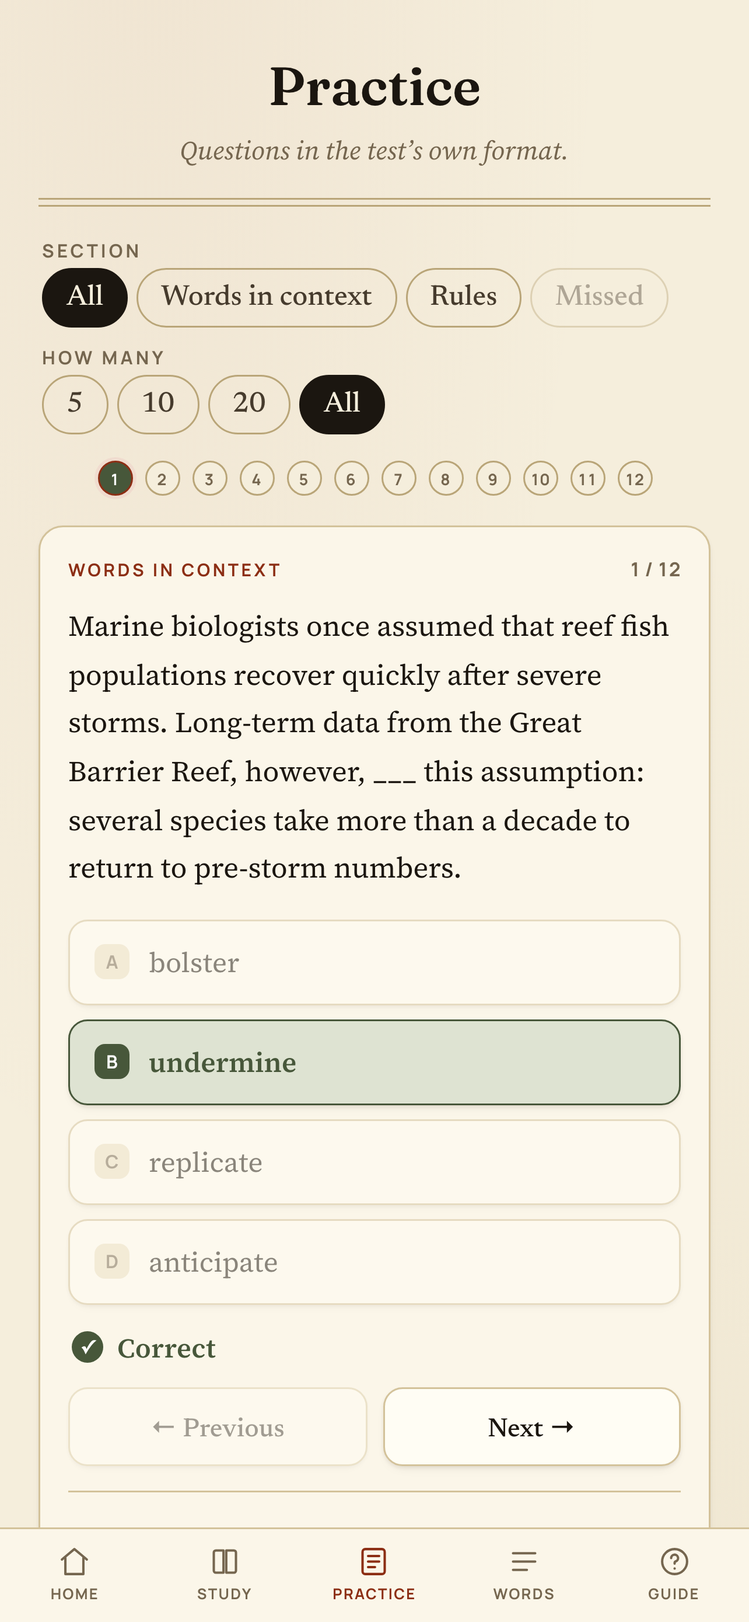
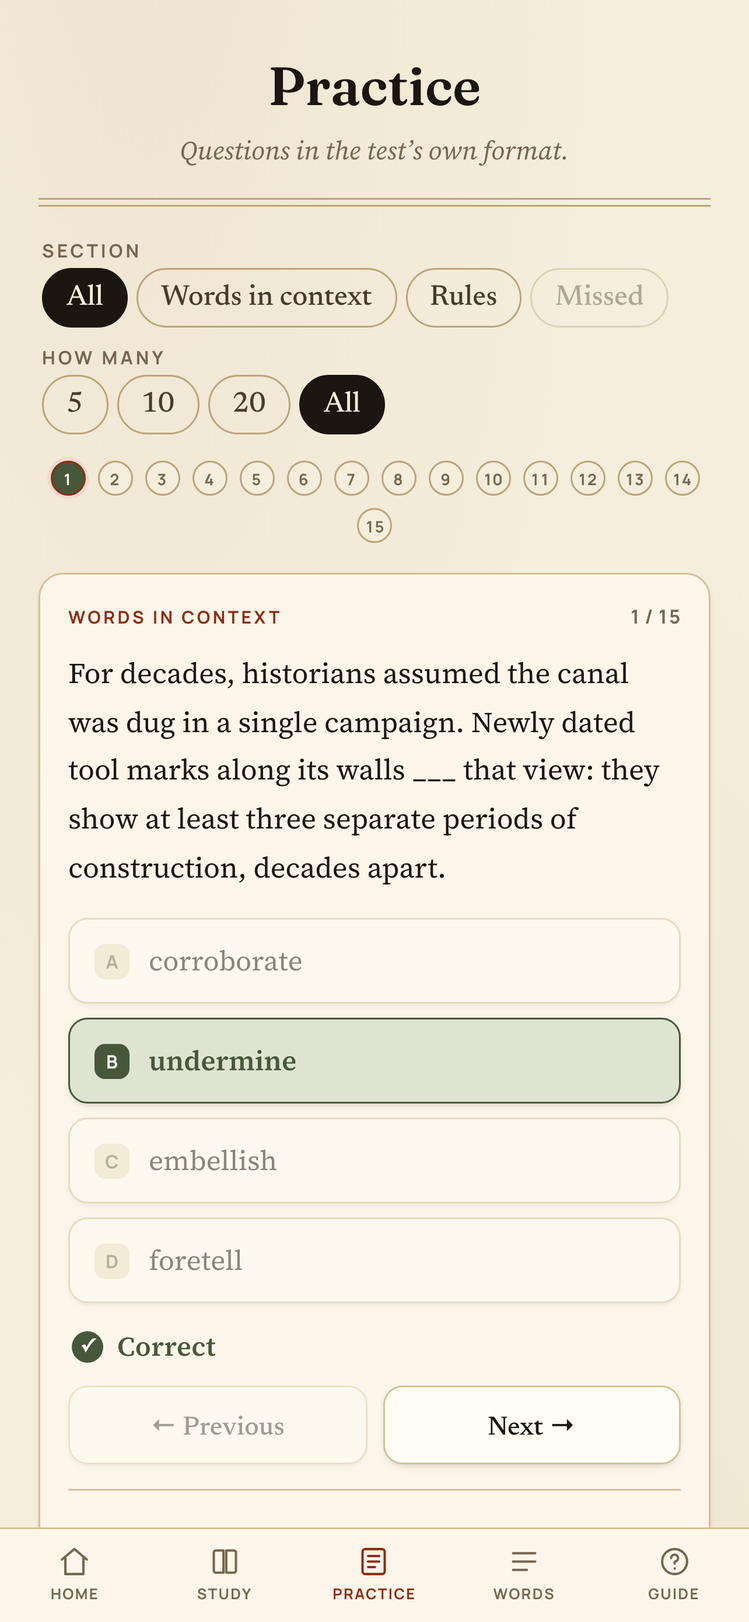
Replace the whole practice bank with original questions; build 3
The 29 questions inherited from the original app's bank are gone; their
source could not be traced, so all were treated as possibly College Board.
In their place, 30 questions written from scratch in the SAT Reading and
Writing format: 15 words-in-context (every option is a word from the list)
and 15 rules and expression, with invented names and new ids (w1-w15,
r1-r15).

- Every option has its own explanation (why[4]) shown after answering,
  rules questions included, plus an English and a Turkish summary.
- Missed drops ids from the retired bank, so it never counts questions it
  cannot show.
- Data test: four explanations per question, exactly one starting
  "Correct", words-in-context options all in the word list, no retired ids.
  Smoke test: every question explains all four options without running off
  a 320-pixel screen.
- Store screenshots regenerated; build number 3; sw.js cache v12.

diff --git a/data/questions.js b/data/questions.js
@@ -1,35 +1,40 @@
-/* Practice bank. ex = English explanation (always shown); ex_<lang> = the same
-   explanation in another language, shown underneath when that language is chosen.
-   g = short meanings for options that are not in the word list; g_<lang> = the same
-   in another language. Options that are in the list take their meaning from it. */
+/* Practice bank: 30 questions in the SAT Reading and Writing format, all
+   written for Lexicon from scratch in October 2026 (passages, options and
+   explanations; names in them are invented). None comes from College Board
+   or any other publisher.
+   sec   wic = words in context (every option is a word from data/words.js, so
+         the app shows its meaning), wr = rules and expression
+   ex    English summary (always shown); ex_<lang> the same in another language
+   why   one English explanation per option, in option order */
 var QUESTIONS = [
-{"id":"c1","sec":"wic","p":"Marine biologists once assumed that reef fish populations recover quickly after severe storms. Long-term data from the Great Barrier Reef, however, ___ this assumption: several species take more than a decade to return to pre-storm numbers.","o":["bolster","undermine","replicate","anticipate"],"a":1,"ex":"'However' signals a contrast with the old assumption, and slow recovery means the data works against it. Undermine = weaken. Bolster is the opposite (support).","ex_tr":"'however' + yavaş toparlanma → veri varsayımı zayıflatıyor. Undermine = zayıflatmak, çürütmek. Bolster tam tersi (desteklemek).","g":{"replicate":"to make an exact copy; to repeat an experiment","anticipate":"to expect, and prepare for"},"g_tr":{"replicate":"kopyalamak; (deneyi) tekrarlamak","anticipate":"önceden tahmin etmek, beklemek"}},
-{"id":"c2","sec":"wic","p":"Because the trial's results were preliminary, the team was careful to ___ its claims, describing the treatment as “promising” rather than “proven.”","o":["temper","trumpet","dismiss","fabricate"],"a":0,"ex":"Calling the treatment 'promising' rather than 'proven' softens the claim. Temper = moderate, tone down. Trumpet would exaggerate it.","ex_tr":"'promising' deyip 'proven' dememek = iddiayı yumuşatmak. Temper = ölçülü hâle getirmek, yumuşatmak.","g":{"temper":"to moderate; to soften","trumpet":"to announce loudly and proudly","dismiss":"to reject as not worth considering","fabricate":"to invent a story or data in order to deceive"},"g_tr":{"temper":"yumuşatmak, ölçülü hâle getirmek","trumpet":"yüksek sesle duyurmak, öve öve anlatmak","dismiss":"reddetmek, göz ardı etmek","fabricate":"uydurmak"}},
-{"id":"c3","sec":"wic","p":"Composer Florence Price was remarkably ___ : in less than three decades she completed more than 300 works, from art songs to full symphonies.","o":["prolific","meticulous","derivative","reclusive"],"a":0,"ex":"More than 300 works in three decades points to sheer output. Prolific = producing a great deal. Meticulous (careful) does not explain the number.","ex_tr":"300+ eser = üretkenlik. Prolific = çok üretken. Meticulous (titiz) sayıyı açıklamaz.","g":{"prolific":"producing a great many works","derivative":"copied from others; not original","reclusive":"keeping away from other people"},"g_tr":{"prolific":"üretken, verimli","derivative":"taklit, özgün olmayan","reclusive":"içine kapanık, insanlardan uzak duran"}},
-{"id":"c4","sec":"wic","p":"Because the manuscript is unsigned and undated, scholars can only ___ about who wrote it, drawing on hints in the handwriting and the ink.","o":["speculate","substantiate","concede","reminisce"],"a":0,"ex":"With no signature or date, scholars have only hints, so they can only guess. Speculate = form a theory without firm evidence. Substantiate needs proof.","ex_tr":"Kanıt yok, sadece ipucu → speculate = kanıta tam dayanmadan tahmin yürütmek. (Rhetorical verbs listenden!)","g":{"reminisce":"to recall the past with pleasure"},"g_tr":{"reminisce":"geçmişi özlemle anmak"}},
-{"id":"c5","sec":"wic","p":"Working independently, the two research teams arrived at the same estimate of the glacier's age — a ___ that lent considerable weight to the finding.","o":["discrepancy","convergence","conjecture","rebuttal"],"a":1,"ex":"Two independent teams reaching the same estimate is a coming-together of results. Convergence = agreement from separate directions. Discrepancy is the opposite.","ex_tr":"Bağımsız iki ekip aynı sonuca varıyor = converge (aynı noktada birleşme). Discrepancy (tutarsızlık) tam tersi.","g":{"discrepancy":"a difference between things that should agree","convergence":"a coming together to the same point from different directions"},"g_tr":{"discrepancy":"tutarsızlık, uyumsuzluk","convergence":"aynı noktada birleşme"}},
-{"id":"c6","sec":"wic","p":"Critics who once dismissed the artist's early collages as amateur experiments now ___ them as precursors to an entire school of design.","o":["hail","disparage","mimic","obscure"],"a":0,"ex":"'Once dismissed ... now ___' sets up a reversal: the critics now praise the collages. Hail = praise enthusiastically. Disparage describes the old attitude.","ex_tr":"'once dismissed... now ___' → zıtlık: artık övüyorlar. Hail = övgüyle selamlamak. Disparage (kötülemek) eski tutum.","g":{"hail":"to praise enthusiastically; to greet","mimic":"to imitate"},"g_tr":{"hail":"övgüyle karşılamak, selamlamak","mimic":"taklit etmek"}},
-{"id":"c7","sec":"wic","p":"Although the region's fossil record is rich in marine species, there is a ___ of evidence for land animals, forcing paleontologists to rely on sites elsewhere.","o":["dearth","plethora","continuum","hierarchy"],"a":0,"ex":"'Although rich in marine species' contrasts with a shortage of land-animal evidence. Dearth = scarcity (a synonym of paucity). Plethora means the opposite.","ex_tr":"'Although rich... ' → zıtlık: azlık. Dearth = paucity = kıtlık. Plethora (bolluk) tuzak, tam tersi.","g":{"continuum":"a continuous range with no sharp divisions","hierarchy":"a system of ranks, one above another"},"g_tr":{"continuum":"süreklilik, kesintisiz dizi","hierarchy":"hiyerarşi, sıralı düzen"}},
-{"id":"c8","sec":"wic","p":"The compound appears ___ at low doses; only when concentrations rise sharply does it begin to damage cells.","o":["innocuous","noxious","salient","volatile"],"a":0,"ex":"Harmless at low doses, damaging only when concentrations rise. Innocuous = harmless. Noxious (poisonous) describes the high-dose effect.","ex_tr":"Düşük dozda zarar yok → innocuous = benign = zararsız. Noxious (zehirli) ancak yüksek dozda."},
-{"id":"c9","sec":"wic","p":"In her summary, the economist focused on the most ___ features of the data — the handful of trends a policymaker could not afford to ignore.","o":["salient","obscure","benign","redundant"],"a":0,"ex":"Trends a policymaker cannot ignore are the most noticeable and important ones. Salient = most prominent. Obscure is the opposite.","ex_tr":"'ignore edilemeyecek' → en belirgin/önemli = salient. Obscure (belirsiz) tam tersi.","g":{"redundant":"not needed; repeating what is already there"},"g_tr":{"redundant":"gereksiz, fazlalık"}},
-{"id":"c10","sec":"wic","p":"Compelling anecdotes may make the hypothesis seem plausible, but they cannot ___ it; only controlled trials can do that.","o":["substantiate","entertain","paraphrase","eclipse"],"a":0,"ex":"Anecdotes are not proof; only controlled trials can confirm the hypothesis. Substantiate = support with evidence.","ex_tr":"Anekdot kanıt değildir → kanıtla doğrulamak = substantiate (Support a claim kategorisi).","g":{"entertain":"to consider an idea; to amuse","paraphrase":"to say the same thing in other words"},"g_tr":{"entertain":"(bir fikri) değerlendirmek; eğlendirmek","paraphrase":"başka sözcüklerle ifade etmek"}},
-{"id":"c11","sec":"wic","p":"Surveys reveal a deep ___ toward workplace automation: employees welcome relief from repetitive tasks yet fear for their long-term roles.","o":["ambivalence","consensus","indifference","animosity"],"a":0,"ex":"Welcoming relief while fearing for their roles is having two opposite feelings at once. Ambivalence = mixed feelings. Indifference would mean not caring.","ex_tr":"Hem olumlu hem olumsuz duygu = ambivalence. Indifference (umursamama) tuzak — burada duygu güçlü, kararsız."},
-{"id":"c12","sec":"wic","p":"The soprano's phrasing was so ___ that listeners could identify a recording of hers within a few notes.","o":["distinctive","conventional","muted","erratic"],"a":0,"ex":"If listeners can identify her in a few notes, her phrasing is unmistakably her own. Distinctive = characteristic, recognisable. Conventional is the opposite.","ex_tr":"Birkaç notada tanınıyor → kendine özgü = distinctive. Conventional (sıradan) tam tersi.","g":{"conventional":"following accepted custom; ordinary","muted":"softened, subdued (of colour or sound)"},"g_tr":{"conventional":"geleneksel, alışılmış","muted":"yumuşatılmış, kısık"}},
-{"id":"g1","sec":"wr","p":"Ceramicist Toshiko Takaezu rarely titled her ___ she wanted viewers to meet each piece without instructions.","o":["works,","works;","works","works, moreover,"],"a":1,"ex":"Both halves are independent clauses. A comma alone makes a comma splice; a semicolon joins two full sentences. 'Moreover' cannot join clauses with a comma.","ex_tr":"İki taraf da IC. 'IC, IC' = comma splice (#1 tuzak). Semicolon iki IC'yi bağlar. Moreover false joiner — virgülle IC bağlayamaz."},
-{"id":"g2","sec":"wr","p":"For the entire series of engravings the artist used a single ___ a steel burin no wider than a grain of rice.","o":["tool:","tool;","tool, and","tool"],"a":0,"ex":"The right side ('a steel burin ...') is not a full sentence, so a semicolon is wrong. A colon can follow a complete clause to introduce an explanation.","ex_tr":"Sağ taraf cümle değil (fragment) → semicolon olmaz. Colon: sol taraf IC ise sağa liste/açıklama gelebilir."},
-{"id":"g3","sec":"wr","p":"In 1963, Maria Goeppert ___ received the Nobel Prize in Physics for her shell model of the nucleus.","o":["Mayer, a German-born theorist,","Mayer, a German-born theorist","Mayer a German-born theorist,","Mayer a German-born theorist"],"a":0,"ex":"'A German-born theorist' is an appositive, extra information that must be closed by a second comma. Remove it and the sentence still stands.","ex_tr":"Appositive (ara açıklama) İKİ virgülle kapanır — parantez tekniği: çıkarınca cümle yine tam."},
-{"id":"g4","sec":"wr","p":"The article credits ___ with the bridge's innovative cable design.","o":["engineer Aylin Demir","engineer, Aylin Demir","engineer Aylin Demir,","engineer, Aylin Demir,"],"a":0,"ex":"'Engineer' plus the name is essential: it tells you which engineer. Essential information takes no commas.","ex_tr":"Unvan + isim = restrictive (hangi mühendis? Aylin Demir). Virgül YOK — 'which one' testin: isim cevap veriyorsa virgülsüz."},
-{"id":"g5","sec":"wr","p":"The collection of letters, journals, and sketches ___ rare insight into the poet's revisions.","o":["offer","offers","are offering","have offered"],"a":1,"ex":"Cross out the prepositional phrase 'of letters, journals, and sketches'. The subject is 'collection', singular, so the verb is 'offers'.","ex_tr":"GERİYE GİT: 'of letters, journals, and sketches' paranteze al → subject = collection (tekil) → offers."},
-{"id":"g6","sec":"wr","p":"Since 2010, the observatory ___ more than 4,000 exoplanet candidates.","o":["identified","has identified","identifies","had identified"],"a":1,"ex":"'Since 2010' marks an action running from the past up to now, which takes the present perfect: has identified.","ex_tr":"Since + geçmişten şimdiye süren iş → present perfect: has/have + V3."},
-{"id":"g7","sec":"wr","p":"Having outgrown its original building, ___ a larger campus north of the river.","o":["the museum relocated to","a larger site was chosen by the museum at","relocation took the museum to","the museum's board, relocating to"],"a":0,"ex":"An opening modifier must be followed by the thing it describes. The museum outgrew the building, so 'the museum' has to come right after the comma.","ex_tr":"Modifier kimi anlatıyorsa virgülden hemen sonra o gelmeli: outgrow eden museum. ('Having...' verb olmaz, DC yapar!)"},
-{"id":"g8","sec":"wr","p":"Most lichens grow less than a millimeter per year. ___ a patch the size of a dinner plate may be many centuries old.","o":["Consequently,","However,","For example,","Similarly,"],"a":0,"ex":"Slow growth is the cause; a dinner-plate patch being centuries old is the consequence. Consequently expresses cause and effect. 'However' would need a contrast.","ex_tr":"Yavaş büyüme → SONUÇ: büyük yama çok yaşlı. Sebep-sonuç = consequently. However zıtlık ister, yok."},
-{"id":"g9","sec":"wr","p":"Early critics dismissed the telescope's photographic plates as too grainy for research. ___ astronomers now use those same plates to track century-long stellar changes.","o":["However,","Therefore,","In addition,","For instance,"],"a":0,"ex":"Once dismissed as useless, now used for research: that is a contrast, so 'However' fits.","ex_tr":"Eskiden 'işe yaramaz' → şimdi kullanılıyor: zıtlık = however."},
-{"id":"g10","sec":"wr","p":"The orchestra's tour stops in Ankara, ___ Tbilisi, Georgia; and Yerevan, Armenia.","o":["Turkey;","Turkey,","Turkey:","Turkey"],"a":0,"ex":"When list items contain commas themselves ('Ankara, Turkey'), the items are separated by semicolons.","ex_tr":"Liste öğelerinin İÇİNDE virgül varsa öğeleri semicolon ayırır (super-comma)."},
-{"id":"g11","sec":"wr","p":"The committee will interview the three candidates ___ applications arrived before the deadline.","o":["whose","who's","which","that"],"a":0,"ex":"The sentence needs possession: the candidates' applications. 'Whose' is the possessive; 'who's' means 'who is'.","ex_tr":"İyelik gerekiyor (kimin başvuruları) → whose. who's = who is."},
-{"id":"g12","sec":"wr","p":"If stricter quotas are not adopted, ___ Marine biologists are attempting to find out.","o":["could the fishery collapse within a decade?","the fishery could collapse within a decade.","could the fishery collapse within a decade.","the fishery could collapse within a decade?"],"a":0,"ex":"'Are attempting to find out' tells you the first sentence is a question. Question word order ('could the fishery') and a question mark must both be present.","ex_tr":"'...find out' → ortada bir SORU var. Soru sırası (could the fishery) + soru işareti; ikisi tutarlı olmalı."},
-{"id":"g13","sec":"wr","p":"The mural's dominant ___ was mixed on site from three pigments.","o":["color — a saturated cobalt —","color — a saturated cobalt,","color, a saturated cobalt —","color: a saturated cobalt —"],"a":0,"ex":"A mid-sentence interruption opens and closes with the same mark: dash ... dash, or comma ... comma. Mixing a dash with a comma is wrong.","ex_tr":"Ara açıklama çifti AYNI işaretle açılıp kapanır: — ... — veya , ... , Karışık (—/,) olmaz."},
-{"id":"g14","sec":"wr","p":"The observatory owes much of ___ success to a network of amateur volunteers.","o":["its","it's","their","they're"],"a":0,"ex":"'Its' is the possessive; 'it's' means 'it is'. The observatory is singular, so 'their' is out.","ex_tr":"its = onun (iyelik); it's = it is. Observatory tekil → their olmaz."},
-{"id":"g15","sec":"wr","p":"Each of the twelve weather stations ___ equipped with a rain gauge and a wind sensor.","o":["is","are","were","have been"],"a":0,"ex":"'Each' is singular. Cross out 'of the twelve weather stations' and you get 'Each ... is'.","ex_tr":"Each = tekil. 'of the twelve stations' paranteze al → Each ... is."},
-{"id":"g16","sec":"wr","p":"The bakery still uses a sourdough starter from 1998, ___ gives the bread its distinctive tang.","o":["which","that","it","this"],"a":0,"ex":"After a comma, 'which' adds a non-essential clause. 'That' does not follow a comma here, and 'it' or 'this' would create a comma splice.","ex_tr":"Virgülden sonra that gelmez; ', which' nonrestrictive ekleme yapar. 'it/this' koyarsan comma splice olur."},
-{"id":"g17","sec":"wr","p":"Neither the players nor the ___ satisfied with the referee's explanation.","o":["captain was","captain were","captains was","captain have been"],"a":0,"ex":"With 'neither ... nor', the verb agrees with the nearer subject: 'captain' is singular, so 'was'.","ex_tr":"neither/nor → fiil YAKINDAKİ özneye uyar: captain (tekil) → was. (neither the captain nor the players WERE olurdu.)"}
+{"id":"w1","sec":"wic","p":"For decades, historians assumed the canal was dug in a single campaign. Newly dated tool marks along its walls ___ that view: they show at least three separate periods of construction, decades apart.","o":["corroborate","undermine","embellish","foretell"],"a":1,"ex":"The colon introduces evidence (three periods) that conflicts with 'a single campaign', so the evidence weakens the old view: undermine.","ex_tr":"İki noktadan sonraki kanıt (üç ayrı inşa dönemi) 'tek seferde kazıldı' görüşüyle çelişiyor; kanıt bu görüşü zayıflatıyor: undermine.","why":["Corroborate means to confirm. Three separate building periods contradict a single campaign, so the marks cannot confirm that view.","Correct. Undermine means to weaken. Evidence of three separate periods weakens the idea of one campaign.","Embellish means to decorate or exaggerate. The tool marks do not add detail to the old view; they work against it.","Foretell means to predict. Dating old tool marks looks back at the past and predicts nothing."]},
+{"id":"w2","sec":"wic","p":"The museum's new director is known for being ___ with public money: she renegotiated every contract, canceled two costly exhibitions, and still finished the year under budget.","o":["profligate","frugal","ostentatious","capricious"],"a":1,"ex":"Renegotiating contracts, canceling costly shows and finishing under budget all describe careful spending: frugal.","ex_tr":"Sözleşmeleri yeniden pazarlık etmek, pahalı sergileri iptal etmek ve yılı bütçenin altında bitirmek dikkatli harcamayı anlatır: frugal (tutumlu).","why":["Profligate means recklessly wasteful, the opposite of cutting costs and finishing under budget.","Correct. Frugal means careful and sparing with money, which is exactly what renegotiating and canceling costly shows shows.","Ostentatious means showy, meant to impress. Nothing in the text is about display.","Capricious means changing suddenly without reason. Her actions are consistent and deliberate."]},
+{"id":"w3","sec":"wic","p":"Although the two languages are spoken in neighboring valleys, their grammars are strikingly ___: one marks tense on every verb, while the other does not mark tense at all.","o":["homogeneous","disparate","analogous","redundant"],"a":1,"ex":"'Although ... neighboring valleys' sets up a surprise, and the colon shows the grammars differ completely: disparate.","ex_tr":"'Although' bir beklentiyi bozuyor: vadiler komşu olduğu hâlde iki dilin dilbilgisi birbirinden tamamen farklı: disparate.","why":["Homogeneous means all of the same kind, the opposite of what the colon goes on to show.","Correct. Disparate means fundamentally different: one grammar marks tense everywhere, the other never does.","Analogous means similar in some respect. The colon shows a difference, not a likeness.","Redundant means unnecessary or repeated. The sentence compares the grammars; it does not judge them useless."]},
+{"id":"w4","sec":"wic","p":"The engineer's report was admirably ___: in two pages it identified the cause of the leak, the cost of the repair, and the date the work could begin.","o":["verbose","succinct","nebulous","esoteric"],"a":1,"ex":"'In two pages' plus three precise facts describes writing that is short and clear: succinct.","ex_tr":"'İki sayfada' üç net bilgi vermek kısa ve öz yazmaktır: succinct.","why":["Verbose means using too many words, the opposite of covering everything in two pages.","Correct. Succinct means brief and clearly expressed.","Nebulous means vague. The report gave a precise cause, cost and date.","Esoteric means understood only by a few specialists. Nothing suggests the report was hard to follow."]},
+{"id":"w5","sec":"wic","p":"Many visitors assume the desert is lifeless, but its plants are remarkably ___: some seeds lie in the sand for years and sprout within days of the first heavy rain.","o":["resilient","feeble","docile","tranquil"],"a":0,"ex":"'But' contrasts 'lifeless' with plants that survive years of drought and spring back after rain: resilient.","ex_tr":"'But' cansız sanılan çölü, yıllarca bekleyip ilk yağmurda filizlenen tohumlarla karşılaştırıyor: resilient (dayanıklı, toparlanabilen).","why":["Correct. Resilient means able to survive hardship and recover, like seeds that wait years and then sprout.","Feeble means weak, the opposite of surviving years of drought.","Docile means easily controlled or obedient, a word for animals or people, not for survival.","Tranquil means calm and peaceful. The text is about surviving drought, not about calm."]},
+{"id":"w6","sec":"wic","p":"The committee's decision seemed ___ to the applicants: no criteria had been published, and two nearly identical proposals received opposite verdicts.","o":["arbitrary","judicious","unequivocal","meticulous"],"a":0,"ex":"No published criteria and opposite verdicts for nearly identical proposals mean the decision followed no clear reason: arbitrary.","ex_tr":"Yayımlanmış ölçüt yok ve neredeyse aynı iki başvuruya zıt kararlar verilmiş: karar bir mantığa dayanmıyor: arbitrary (keyfî).","why":["Correct. Arbitrary means based on chance or whim rather than a reason or system.","Judicious means showing good judgment. Missing criteria and inconsistent verdicts suggest the opposite.","Unequivocal means clear and leaving no doubt. The complaint is about a lack of reasons, not unclear wording.","Meticulous means extremely careful. Opposite verdicts for nearly identical proposals are not careful work."]},
+{"id":"w7","sec":"wic","p":"At first the researchers thought the bird's song was a fixed inheritance, but recordings of young birds raised apart showed that the song is ___: it changes depending on which adults the chicks hear.","o":["immutable","malleable","innate","vestigial"],"a":1,"ex":"'But' reverses 'fixed inheritance', and the colon says the song changes with what the chicks hear: malleable.","ex_tr":"'But' 'sabit, kalıtsal' fikrini tersine çeviriyor; iki noktadan sonrası şarkının yavruların duyduklarına göre değiştiğini söylüyor: malleable (şekillendirilebilir).","why":["Immutable means unchangeable, the opposite of a song that changes.","Correct. Malleable means able to be shaped or changed.","Innate means present from birth. That was the researchers' first idea, which the recordings overturned.","Vestigial means left over and no longer useful. The text is about change, not about leftovers."]},
+{"id":"w8","sec":"wic","p":"The new irrigation system was meant to ___ the effects of the drought, and it did: harvests fell by only a tenth, compared with a third on farms without it.","o":["exacerbate","mitigate","emulate","disclose"],"a":1,"ex":"Losses of a tenth instead of a third show the system made the drought less harmful: mitigate.","ex_tr":"Kayıp üçte bir yerine onda birde kaldı; sistem kuraklığın etkisini hafifletti: mitigate.","why":["Exacerbate means to make worse. The system reduced the losses.","Correct. Mitigate means to make less severe: losses of a tenth instead of a third.","Emulate means to imitate. Nothing is being copied.","Disclose means to reveal information. A system does not reveal a drought's effects; it changes them."]},
+{"id":"w9","sec":"wic","p":"Critics had called the author's first novel ___, but her second book silenced them: reviewers praised its original plot and characters unlike any in recent fiction.","o":["insipid","ingenious","inimitable","lucid"],"a":0,"ex":"'But her second book silenced them' means the critics had said something negative, and praise for originality answers a charge of dullness: insipid.","ex_tr":"'İkinci kitabı eleştirmenleri susturdu' ilk kitap için olumsuz bir şey söylendiğini gösterir; özgünlüğe övgü 'yavan' eleştirisine cevaptır: insipid.","why":["Correct. Insipid means dull and lacking interest; the praise for originality answers exactly that charge.","Ingenious means very clever. That is praise, which would need no silencing.","Inimitable means impossible to copy, again praise, and the opposite of a dull first book.","Lucid means clear and easy to understand, also praise, so it creates no contrast."]},
+{"id":"w10","sec":"wic","p":"Because the treaty's wording was ___, each government read it as supporting its own claim to the river, and the dispute dragged on for another decade.","o":["ambiguous","explicit","cogent","provisional"],"a":0,"ex":"Each side read the same words as support for itself, so the wording allowed two meanings: ambiguous.","ex_tr":"Aynı metni iki hükümet de kendi lehine okuyabildi; demek ki ifade birden fazla anlama açıktı: ambiguous.","why":["Correct. Ambiguous means open to more than one interpretation, so each side could read it its own way.","Explicit means stated clearly. A clear text could not support two opposite claims.","Cogent means logical and convincing. That describes an argument, and it does not explain two readings.","Provisional means temporary. The problem is two readings, not how long the treaty would last."]},
+{"id":"w11","sec":"wic","p":"The volunteers' ___ effort over three summers paid off: they cataloged every one of the 4,000 headstones in the cemetery, including many that had been hidden under moss.","o":["sporadic","tenacious","frivolous","superficial"],"a":1,"ex":"Three summers of work that recorded every one of 4,000 stones is an effort that never gave up: tenacious.","ex_tr":"Üç yaz boyunca 4.000 mezar taşının hepsini kaydetmek pes etmeyen bir çabadır: tenacious (azimli).","why":["Sporadic means happening only now and then. Three summers of work that reached every stone was steady.","Correct. Tenacious means persistent, refusing to give up.","Frivolous means not serious. Cataloging 4,000 headstones is serious work.","Superficial means shallow. Uncovering stones hidden under moss is thorough, not shallow."]},
+{"id":"w12","sec":"wic","p":"In her memoir, the diplomat is unusually ___ about her own mistakes, describing in detail the misjudgments that cost her country a trade agreement.","o":["candid","evasive","reticent","complacent"],"a":0,"ex":"Describing her own misjudgments 'in detail' shows openness: candid.","ex_tr":"Hatalarını ayrıntılarıyla anlatması açık sözlülüğü gösterir: candid (dürüst, açık sözlü).","why":["Correct. Candid means honest and frank, as describing her own misjudgments in detail is.","Evasive means avoiding direct answers, the opposite of describing mistakes in detail.","Reticent means reluctant to reveal things, again the opposite.","Complacent means self-satisfied and unaware of problems. She openly examines her mistakes."]},
+{"id":"w13","sec":"wic","p":"The study's sample of 40 students is too small to support such ___ conclusions; the authors claim their findings apply to every school in the country.","o":["tentative","broad","esoteric","nuanced"],"a":1,"ex":"A claim about every school in the country is very wide, and 40 students cannot carry it: broad.","ex_tr":"Bulguların ülkedeki her okul için geçerli olduğunu iddia etmek çok geniş kapsamlı bir sonuçtur; 40 öğrenci buna yetmez: broad.","why":["Tentative means hesitant and uncertain. The authors make a confident claim about every school.","Correct. Broad means wide in scope, as a claim about every school in the country is.","Esoteric means understood by few. The problem is the size of the claim, not who can understand it.","Nuanced means showing subtle distinctions. A claim that applies everywhere ignores distinctions."]},
+{"id":"w14","sec":"wic","p":"Once a ___ figure in the city's politics, the former mayor now rarely appears in public, and many younger residents do not recognize her name.","o":["pivotal","peripheral","obscure","reticent"],"a":0,"ex":"'Once ... now' builds a contrast: someone forgotten today was once at the center of the city's politics: pivotal.","ex_tr":"'Once ... now' bir karşıtlık kuruyor: bugün unutulmuş biri bir zamanlar şehir siyasetinin merkezindeydi: pivotal (kilit, çok önemli).","why":["Correct. Pivotal means of central importance, which contrasts with being forgotten now.","Peripheral means minor, on the edges. 'Once ... now' needs a contrast with being forgotten.","Obscure means little known. That describes her now, not then.","Reticent means reserved and quiet. It describes a personality and sets up no contrast with fame."]},
+{"id":"w15","sec":"wic","p":"Rather than ___ the old factory, the town converted it into a library, keeping the brick walls and the iron roof beams that residents had known for a century.","o":["obliterate","salvage","replenish","venerate"],"a":0,"ex":"'Rather than' sets the rejected choice against what the town did, which was keep the building: obliterate.","ex_tr":"'Rather than' reddedilen seçeneği yapılanla karşılaştırır: kasaba binayı yıkmak yerine duvarlarını ve kirişlerini koruyarak kütüphaneye çevirdi: obliterate (yerle bir etmek).","why":["Correct. Obliterate means to destroy completely, which 'rather than' sets against keeping the walls and beams.","Salvage means to rescue from loss. Converting the building and keeping its walls is salvaging it, so 'rather than' would make no sense.","Replenish means to fill up again. A building is not refilled.","Venerate means to respect deeply. Keeping the walls shows respect, so 'rather than venerate' contradicts the sentence."]},
+{"id":"r1","sec":"wr","p":"The glassblower heated the rod until it glowed ___ then she shaped the bowl with a wet wooden paddle.","o":["orange;","orange,","orange","orange: and"],"a":0,"ex":"Two independent clauses: join them with a semicolon. A comma alone makes a comma splice, and 'then' cannot join clauses.","ex_tr":"İki tam cümle noktalı virgülle bağlanır. Tek virgül 'comma splice' olur; 'then' bağlaç değildir.","why":["Correct. Both halves are complete sentences, and a semicolon can join two complete sentences.","A comma alone between two complete sentences is a comma splice; 'then' is not a joining word.","With no punctuation, the two sentences run together.","A colon followed by 'and' is never right; joining with 'and' needs a comma, not a colon."]},
+{"id":"r2","sec":"wr","p":"The recipe calls for only three ___ flour, water, and salt.","o":["ingredients:","ingredients;","ingredients, including:","ingredients"],"a":0,"ex":"A complete clause ('The recipe calls for only three ingredients') introduces a list, so use a colon.","ex_tr":"Tam bir cümleden sonra iki nokta bir listeyi tanıtır. 'including'den sonra iki nokta konmaz.","why":["Correct. A colon after a complete sentence introduces a list.","A semicolon needs a complete sentence on both sides; 'flour, water, and salt' is not one.","A colon never follows 'including'.","With no punctuation, the list runs straight into 'ingredients'."]},
+{"id":"r3","sec":"wr","p":"In 2019, Ana ___ completed the longest timber footbridge in the region.","o":["Molina, a self-taught engineer,","Molina, a self-taught engineer","Molina a self-taught engineer,","Molina; a self-taught engineer,"],"a":0,"ex":"An appositive (extra information renaming a noun) needs a comma on both sides.","ex_tr":"'a self-taught engineer' ek bilgidir (appositive); iki virgülle açılıp kapanmalıdır.","why":["Correct. 'A self-taught engineer' is extra information about Ana Molina, opened and closed by a pair of commas.","The extra information is opened with a comma but never closed.","The extra information is closed with a comma but never opened.","A semicolon must join two complete sentences, and 'In 2019, Ana Molina' is not one."]},
+{"id":"r4","sec":"wr","p":"The documentary features ___ whose recordings of whale songs have reached millions of listeners.","o":["oceanographer Lena Hart,","oceanographer, Lena Hart,","oceanographer, Lena Hart","oceanographer Lena Hart"],"a":0,"ex":"Title + name takes no comma; a 'whose' clause after a name adds extra information, so a comma comes first.","ex_tr":"Unvan + isim ('oceanographer Lena Hart') virgülsüz yazılır; isimden sonra gelen 'whose' cümleciği ek bilgidir, önüne virgül gelir.","why":["Correct. A title and a name ('oceanographer Lena Hart') take no comma, and the comma before 'whose' sets off the extra information.","A comma between 'oceanographer' and the name splits a title from the name it belongs to.","The same wrong comma, and no comma before the extra-information 'whose' clause.","The name already identifies her, so the 'whose' clause is extra information and needs a comma before it."]},
+{"id":"r5","sec":"wr","p":"The stack of old maps in the library's basement ___ been scanned by a team of volunteers.","o":["has","have","are","were"],"a":0,"ex":"Cross out the phrase 'of old maps in the library's basement': the subject is 'stack', singular, so 'has'.","ex_tr":"Edat öbeğini ('of old maps ...') çıkar: özne 'stack', tekil: has.","why":["Correct. The subject is 'stack', which is singular.","'Have' agrees with 'maps', but 'maps' sits inside the phrase 'of old maps'; it is not the subject.","'Are' is plural, and 'are been' is not a verb form.","'Were' is plural, and 'were been' is not a verb form."]},
+{"id":"r6","sec":"wr","p":"Since the bike lanes opened in 2021, the number of cyclists on the avenue ___.","o":["has doubled","doubled","had doubled","will double"],"a":0,"ex":"'Since' + a past starting point describes something continuing up to now: present perfect, 'has doubled'.","ex_tr":"'Since 2021' geçmişten bugüne süren bir durumu gösterir: present perfect, has doubled.","why":["Correct. 'Since 2021' marks a change running from the past up to now, which takes the present perfect.","The simple past states a finished event at a past time and clashes with 'since'.","The past perfect needs a second, later past event to come before, and there is none.","The future does not fit a change that has already happened."]},
+{"id":"r7","sec":"wr","p":"Hoping to reach the summit before the storm, ___","o":["the climbers left camp at three in the morning.","camp was left by the climbers at three in the morning.","the storm forced the climbers to leave camp at three in the morning.","three in the morning was when the climbers left camp."],"a":0,"ex":"An opening modifier describes whatever comes right after the comma. Only people can hope, so 'the climbers' must come first.","ex_tr":"Baştaki ifade ('Hoping to reach the summit') virgülden hemen sonra gelen özneyi anlatır; umut eden tırmanıcılardır.","why":["Correct. The climbers are the ones hoping, and they come right after the comma.","This makes 'camp' the one hoping to reach the summit.","This makes 'the storm' the one hoping to reach the summit.","This makes 'three in the morning' the one hoping to reach the summit."]},
+{"id":"r8","sec":"wr","p":"Bamboo can grow almost a meter in a single day. ___ a cleared hillside can be green again within one season.","o":["As a result,","Nevertheless,","For instance,","In contrast,"],"a":0,"ex":"Fast growth (cause) leads to a quickly green hillside (effect): 'As a result'.","ex_tr":"Hızlı büyüme sebep, yamacın bir mevsimde yeşermesi sonuç: As a result.","why":["Correct. Fast growth is the cause; a hillside turning green within a season is the result.","'Nevertheless' signals something surprising despite the first sentence, but the second sentence follows from it.","'For instance' introduces an example of the first claim; the hillside is a consequence of fast growth, not an example of growing a meter a day.","'In contrast' signals an opposite idea, and the sentences agree."]},
+{"id":"r9","sec":"wr","p":"The first edition of the atlas sold only a few hundred copies. ___ the revised edition, published ten years later, became a standard reference in schools.","o":["By contrast,","Similarly,","Therefore,","In other words,"],"a":0,"ex":"A few hundred copies versus a standard reference: the sentences contrast, so 'By contrast'.","ex_tr":"Birkaç yüz kopya satan ilk baskı ile okullarda standart kaynak olan yeni baskı zıt: By contrast.","why":["Correct. Weak sales of the first edition are set against the revised edition's success.","'Similarly' would mean the second edition also sold poorly.","'Therefore' would mean poor sales caused the later success.","'In other words' restates the first sentence, but the second says something new and opposite."]},
+{"id":"r10","sec":"wr","p":"After months of debate, the city council finally announced ___ decision to rebuild the old pier.","o":["its","their","it's","they're"],"a":0,"ex":"A collective noun like 'council' is singular, and the possessive is 'its' (no apostrophe).","ex_tr":"'Council' tekil bir topluluk ismidir: its. 'It's' = it is.","why":["Correct. 'Council' is one body, so the singular possessive 'its'.","'Their' is plural, but 'council' is a single group.","'It's' means 'it is', which makes no sense before 'decision'.","'They're' means 'they are', which makes no sense here."]},
+{"id":"r11","sec":"wr","p":"The training program teaches volunteers to read tide charts, ___ and to radio the harbor in an emergency.","o":["to tie secure knots,","tying secure knots,","how secure knots are tied,","secure knots being tied,"],"a":0,"ex":"Items in a list must be parallel: to read ..., to tie ..., and to radio ....","ex_tr":"Listedeki öğeler aynı biçimde olmalı: to read ..., to tie ..., and to radio ....","why":["Correct. All three items share the same form: to read, to tie, to radio.","'Tying' breaks the 'to + verb' pattern of the other two items.","A 'how' clause does not match 'to read' and 'to radio'.","A passive '-ing' phrase does not match the other two items."]},
+{"id":"r12","sec":"wr","p":"The town's oldest bakery ___ still uses the wood-fired oven its founders built.","o":["— open since 1887 —","— open since 1887,",", open since 1887 —",": open since 1887 —"],"a":0,"ex":"A mid-sentence interruption opens and closes with the same mark: dash ... dash, or comma ... comma.","ex_tr":"Cümle ortasındaki ara söz aynı işaretle açılıp kapanır: tire ... tire.","why":["Correct. An interruption opened with a dash is closed with a dash.","It opens with a dash but closes with a comma; the marks must match.","It opens with a comma but closes with a dash; the marks must match.","A colon must follow a complete sentence and cannot open an interruption."]},
+{"id":"r13","sec":"wr","p":"The two ___ findings were published together in a single issue of the journal.","o":["laboratories'","laboratory's","laboratories","laboratorie's"],"a":0,"ex":"Plural ending in -s + possession: add only an apostrophe, 'laboratories''.","ex_tr":"İki laboratuvar (çoğul) + iyelik: laboratories'.","why":["Correct. Two laboratories own the findings: plural, then an apostrophe after the s.","'Laboratory's' is the possessive of one laboratory, but there are two.","'Laboratories' is plural but shows no possession, and the findings belong to them.","'Laboratorie's' is not a real form."]},
+{"id":"r14","sec":"wr","p":"The village relies on a single spring, ___ supplies water to more than two hundred homes.","o":["which","it","this","they"],"a":0,"ex":"'Which' after a comma adds extra information; 'it' or 'this' would make a comma splice.","ex_tr":"Virgülden sonra 'which' ek bilgi cümleciği başlatır; 'it' veya 'this' comma splice yaratır.","why":["Correct. After a comma, 'which' begins a clause of extra information about the spring.","'It' starts a new complete sentence after a comma: a comma splice.","'This' also starts a new sentence after a comma: a comma splice.","'They' is plural for a single spring, and it also makes a comma splice."]},
+{"id":"r15","sec":"wr","p":"Either the coach or the players ___ responsible for putting the equipment away after practice.","o":["are","is","was","has been"],"a":0,"ex":"With either ... or, the verb agrees with the subject closer to it: 'players', plural, so 'are'.","ex_tr":"'Either ... or'da fiil yakındaki özneye uyar: 'players' çoğul: are.","why":["Correct. With 'either ... or', the verb agrees with the nearer subject, 'players', which is plural.","'Is' is singular; it would agree with 'coach', but 'players' is nearer.","'Was' is singular, and the sentence describes a habit in the present.","'Has been' is singular, so it cannot agree with 'players'."]}
 ];

diff --git a/index.html b/index.html
@@ -681,6 +681,11 @@ input:focus-visible{outline:2px solid var(--accent);outline-offset:1px}
 .opts-gloss span{font-family:var(--serif);font-size:14.5px;color:var(--ink2);line-height:1.45}
 .opts-gloss .is-ans b{color:var(--sage)}
 .opts-gloss .is-pick b{color:var(--bad)}
+/* practice rows: the option, its meaning (word questions), then why it is
+   right or wrong; long options wrap instead of pushing the row wide */
+.opts-gloss .opt{flex:1;min-width:0}
+.opts-gloss .opt b{margin-right:6px}
+.opts-gloss .why{display:block;margin-top:3px;color:var(--ink)}
 
 /* ------------------------- welcome (first run) ---------------------- */
 #v-welcome{padding:0 22px 22px;text-align:center}
@@ -2472,7 +2477,12 @@ function qPool() {
 }
 /* the Missed chip only means something once something has been missed */
 function renderQSections() {
-  var n = (PROF.qmiss || []).length, b = $('q-filter').querySelector('[data-v="miss"]');
+  /* ids of questions that are no longer in the bank (the bank was rewritten
+     in October 2026) drop out, so Missed never counts questions it cannot show */
+  var have = {}; QUESTIONS.forEach(function (q) { have[q.id] = 1; });
+  var qm = (PROF.qmiss || []).filter(function (id) { return have[id]; });
+  if (PROF.qmiss && qm.length !== PROF.qmiss.length) { PROF.qmiss = qm; save(LS.prof, PROF); }
+  var n = qm.length, b = $('q-filter').querySelector('[data-v="miss"]');
   b.disabled = n === 0;
   b.innerHTML = 'Missed' + (n ? ' <small>' + n + '</small>' : '');
   /* inside a drill the section and count chips make no sense; a way back does */
@@ -2565,7 +2575,7 @@ function renderQuestion(keepChoices) {
             : (picked === -2 ? 'Not sure yet' : 'Incorrect') + ' <small>the answer is ' + 'ABCD'[q.a] + '</small>');
   }
   var gloss = $('q-gloss');
-  if (picked === -1 || q.sec !== 'wic') {   /* punctuation options have no meanings to gloss */
+  if (picked === -1 || !(q.sec === 'wic' || q.why)) {   /* drills explain themselves below */
     gloss.hidden = true; gloss.innerHTML = '';
   } else {
     /* The original explains the options, not only the answer: knowing why
@@ -2575,8 +2585,11 @@ function renderQuestion(keepChoices) {
       if (k < 0) k = indexOfWord(String(o).charAt(0).toUpperCase() + String(o).slice(1));
       if (k >= 0) m = (WORDS[k][W_EN] || '') + (glossOf(WORDS[k]) ? ' · ' + glossOf(WORDS[k]) : '');
       else m = optionGloss(q, o);
+      if (q.sec !== 'wic') m = '';            /* punctuation options have no meanings */
+      var why = q.why && q.why[i] ? q.why[i] : '';
       return '<div' + (i === q.a ? ' class="is-ans"' : (i === picked ? ' class="is-pick"' : '')) + '><i>' + 'ABCD'[i] + '</i>'
-        + '<b>' + esc(o) + '</b><span>' + esc(m) + '</span></div>';
+        + '<span class="opt"><b>' + esc(o) + '</b>' + (m ? '<span class="mean">' + esc(m) + '</span>' : '')
+        + (why ? '<span class="why">' + esc(why) + '</span>' : '') + '</span></div>';
     }).join('');
     gloss.hidden = false;
     gloss.innerHTML = rows;

diff --git a/sw.js b/sw.js
@@ -8,7 +8,7 @@
  *
  * Bump CACHE when the shipped files change.
  */
-const CACHE = 'lexicon-app-v11';
+const CACHE = 'lexicon-app-v12';
 
 const PRECACHE = [
   './',

diff --git a/CLAUDE.md b/CLAUDE.md
@@ -20,6 +20,9 @@ users in China and Türkiye already; a backend (Supabase) holds progress.
 - Run `npm test` before every commit (data checks + 52 headless-Chrome checks;
   needs Node 22+ and Google Chrome). Add a check for every behaviour you add.
 - Bump `CACHE` in `sw.js` when shipped files change.
+- **No College Board (or other publisher) material.** The practice bank in
+  `data/questions.js` was rewritten from scratch in October 2026; new questions must be
+  original too, with a `why` for every option (the data test enforces it).
 - Every input, select and textarea is at least 16px and outside the `--s` type scale:
   iOS zooms the page when a smaller field gets focus, and in the app the zoom sticks.
 - Bump `CURRENT_PROJECT_VERSION` in the Xcode project for every upload (build 1 is in
